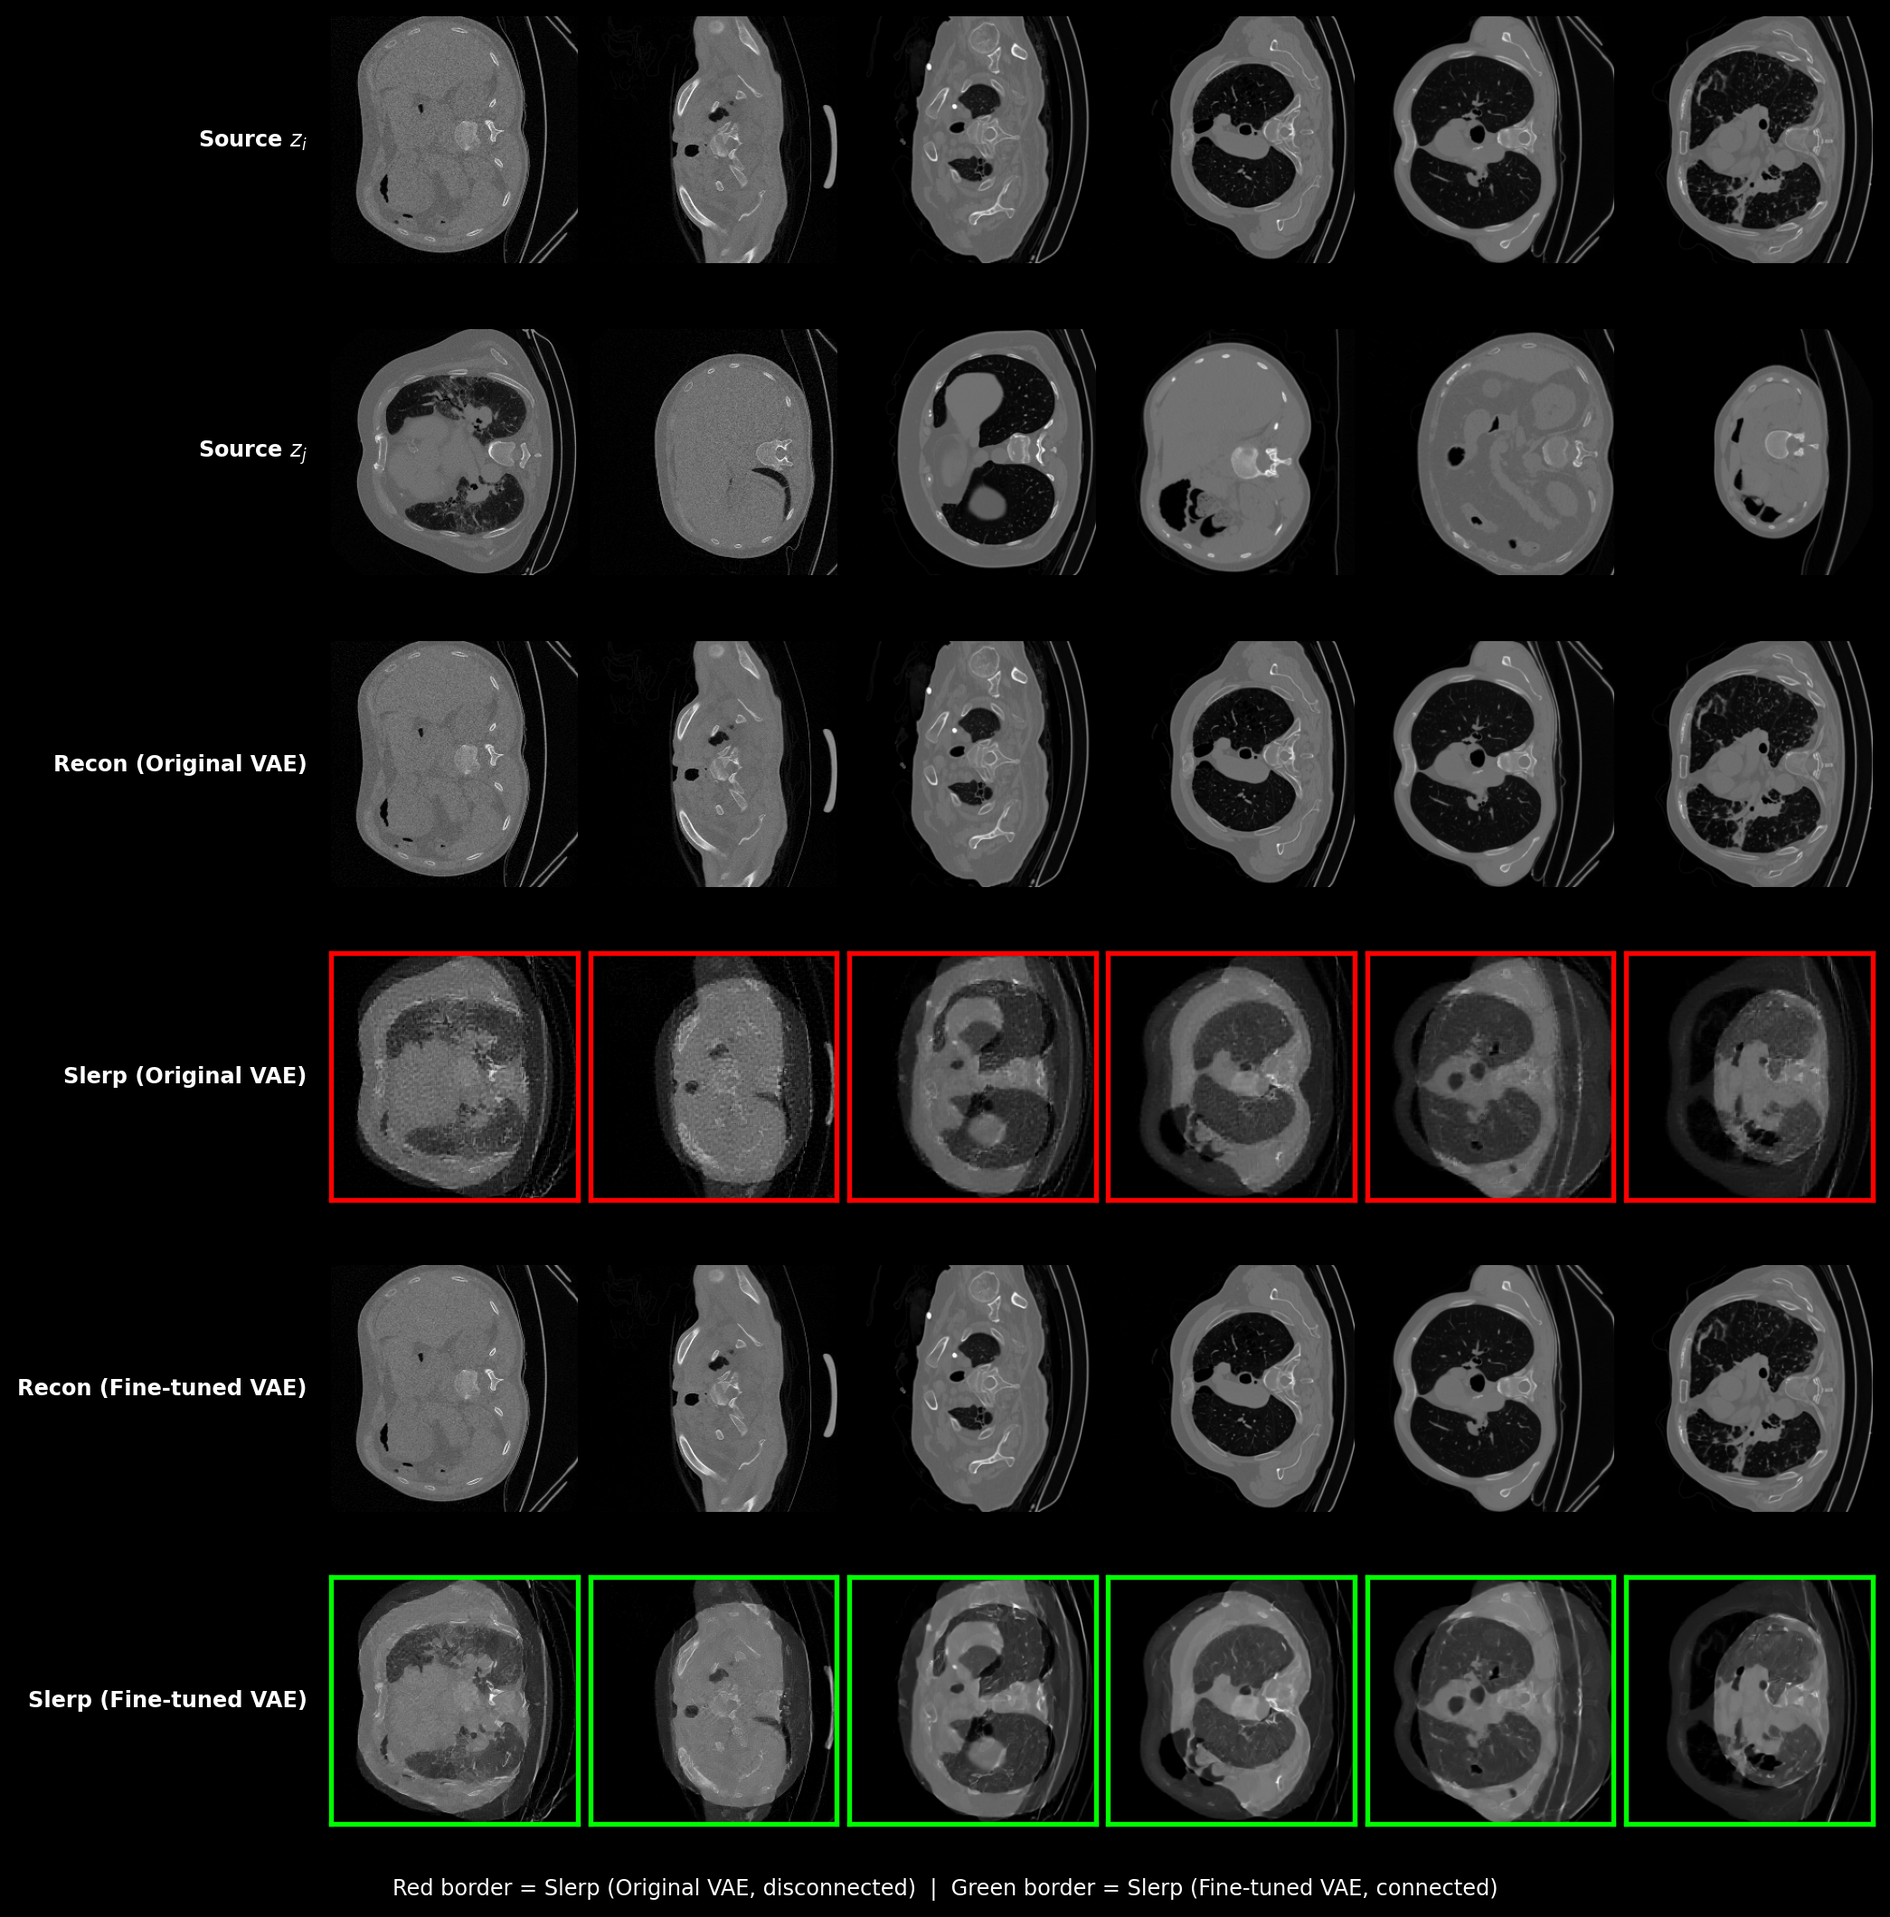
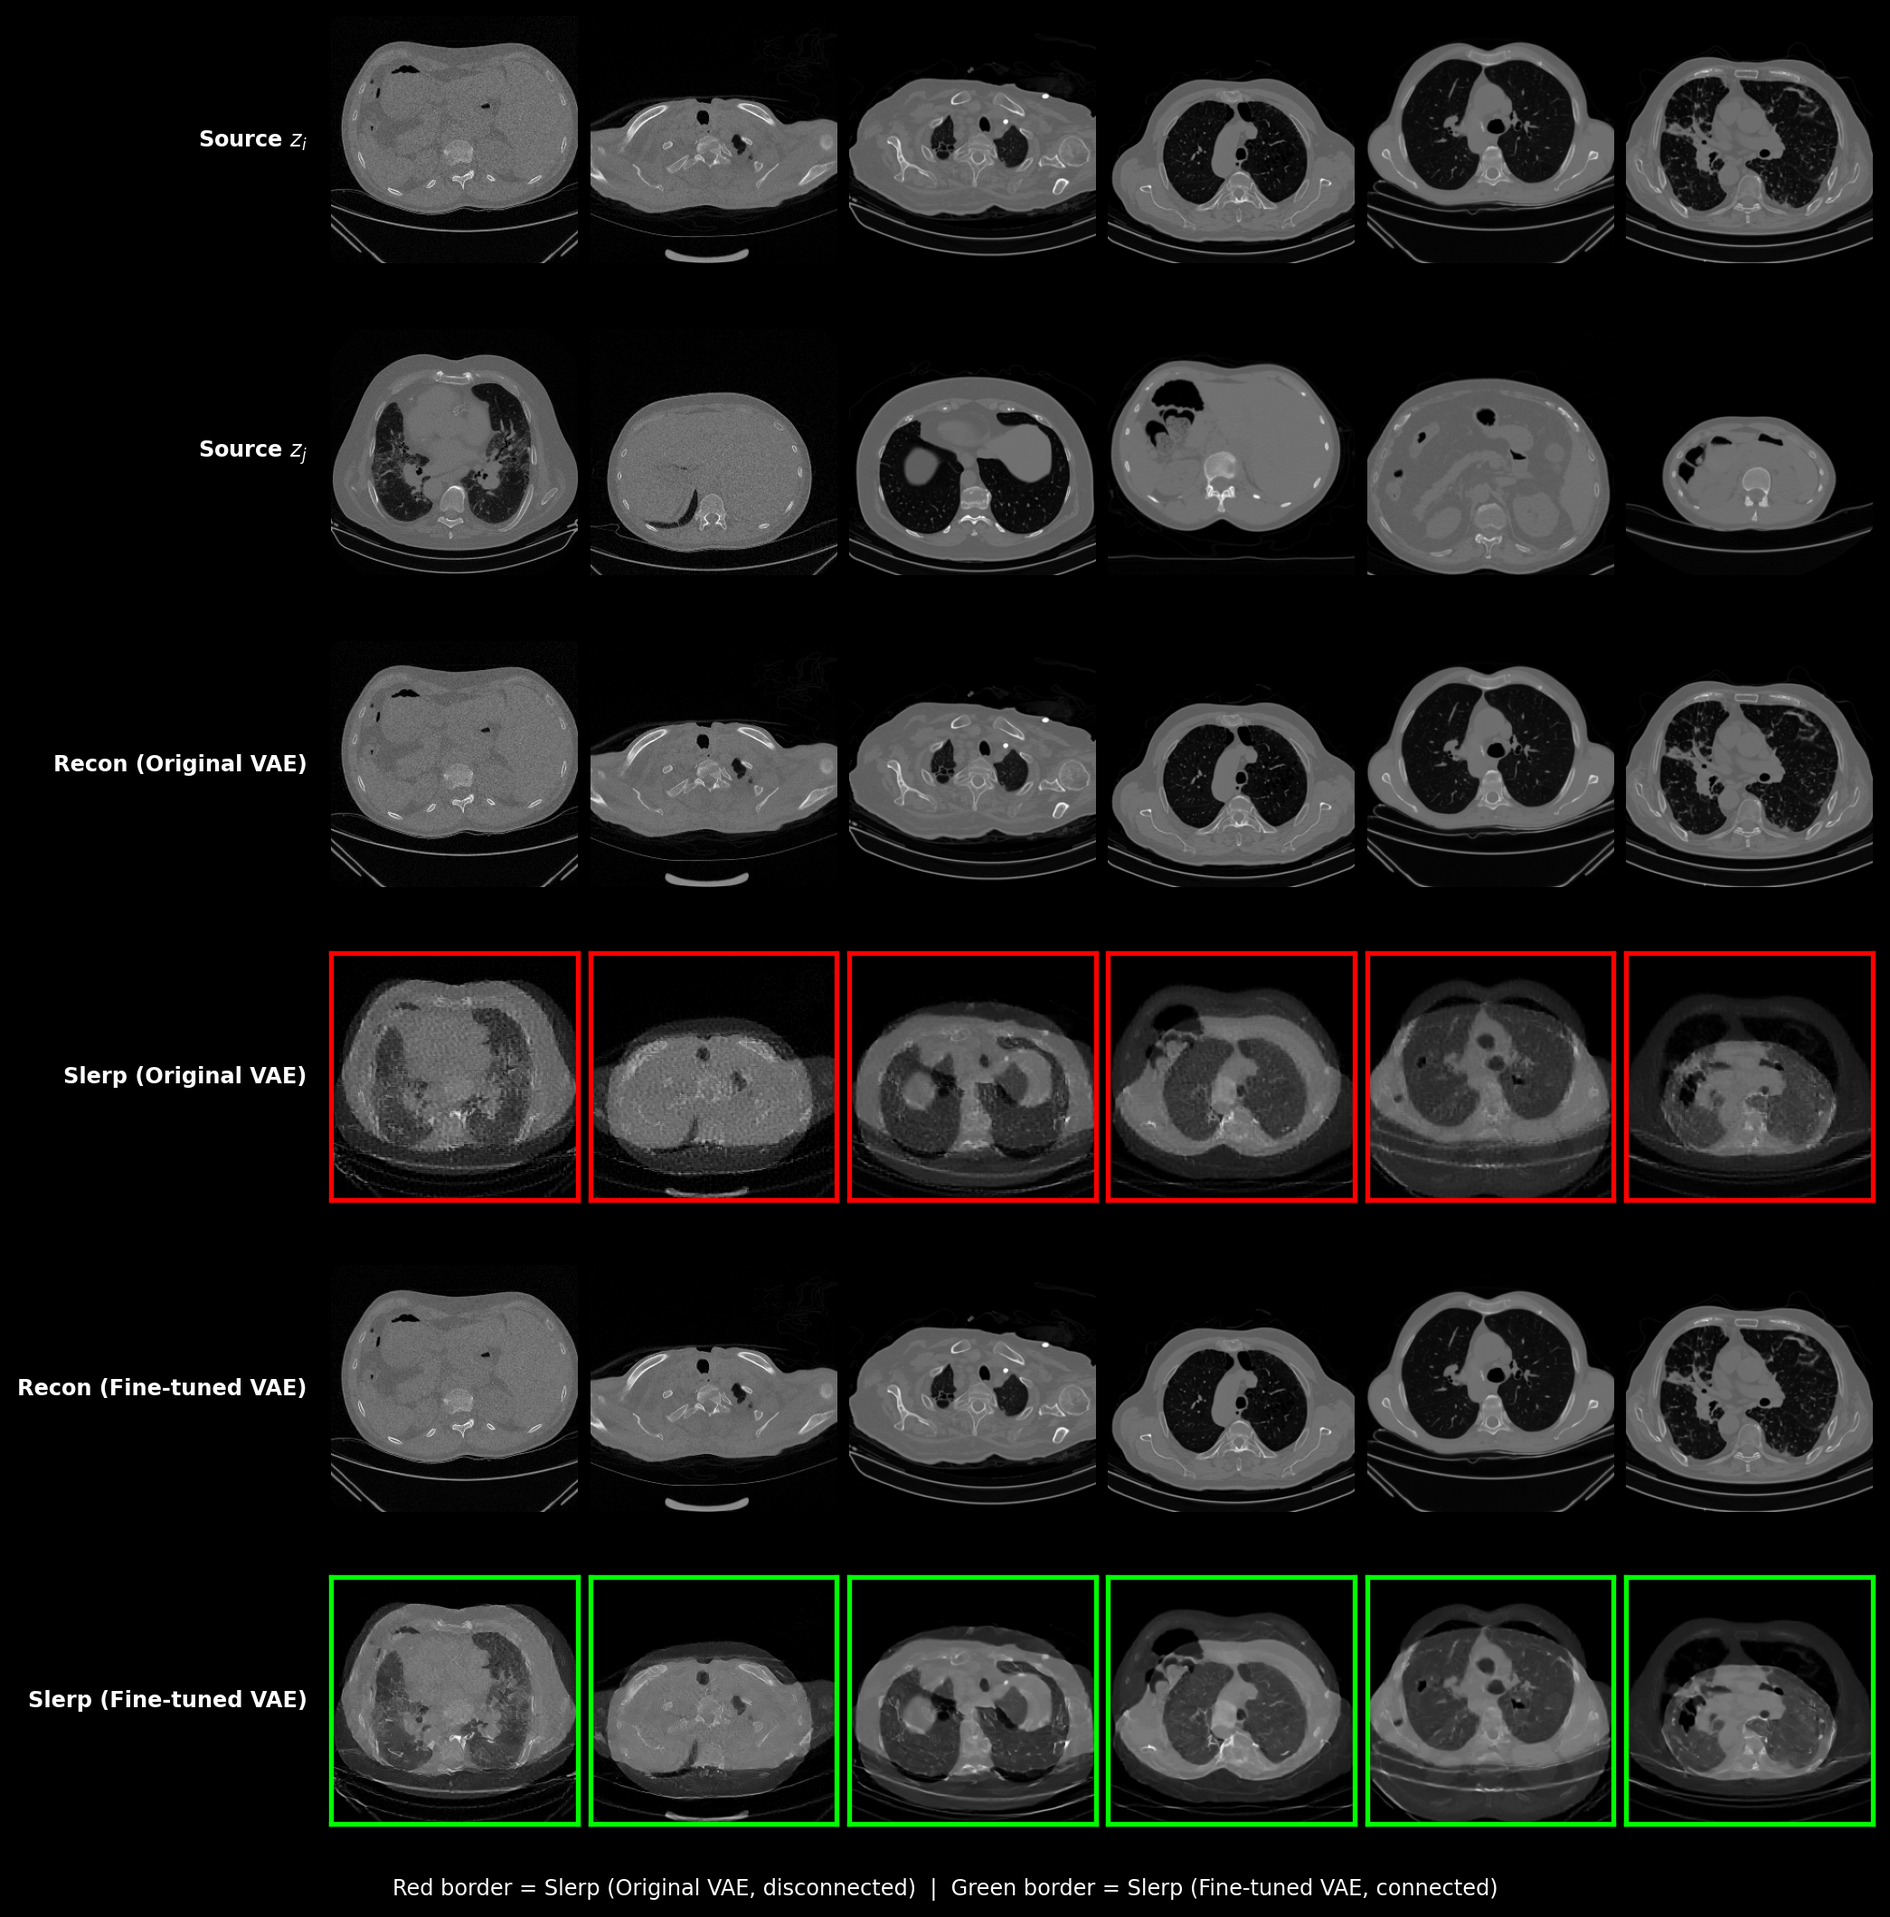
Rotate each individual CT slice panel 90 degrees clockwise, not just the grid layout

Changed region(s): [[0.1555, 0.0, 0.9952, 0.467], [0.1555, 0.6538, 0.9952, 0.9651], [0.1555, 0.4981, 0.9952, 0.6226]]

diff --git a/docs/index.html b/docs/index.html
@@ -212,7 +212,7 @@ window.Quarto = {
 <span id="cb1-19"><a href="#cb1-19" aria-hidden="true" tabindex="-1"></a><span class="cf">for</span> row <span class="kw">in</span> <span class="bu">range</span>(n_panel_types):</span>
 <span id="cb1-20"><a href="#cb1-20" aria-hidden="true" tabindex="-1"></a>    <span class="cf">for</span> col <span class="kw">in</span> <span class="bu">range</span>(n_cols):</span>
 <span id="cb1-21"><a href="#cb1-21" aria-hidden="true" tabindex="-1"></a>        ax <span class="op">=</span> axes[row, col]</span>
-<span id="cb1-22"><a href="#cb1-22" aria-hidden="true" tabindex="-1"></a>        ax.imshow(panels[row, col], cmap<span class="op">=</span><span class="st">"gray"</span>, vmin<span class="op">=</span><span class="dv">0</span>, vmax<span class="op">=</span><span class="dv">255</span>)</span>
+<span id="cb1-22"><a href="#cb1-22" aria-hidden="true" tabindex="-1"></a>        ax.imshow(np.rot90(panels[row, col], k<span class="op">=-</span><span class="dv">1</span>), cmap<span class="op">=</span><span class="st">"gray"</span>, vmin<span class="op">=</span><span class="dv">0</span>, vmax<span class="op">=</span><span class="dv">255</span>)  <span class="co"># 90 deg clockwise</span></span>
 <span id="cb1-23"><a href="#cb1-23" aria-hidden="true" tabindex="-1"></a>        ax.set_xticks([])<span class="op">;</span> ax.set_yticks([])</span>
 <span id="cb1-24"><a href="#cb1-24" aria-hidden="true" tabindex="-1"></a>        <span class="cf">for</span> spine <span class="kw">in</span> ax.spines.values():</span>
 <span id="cb1-25"><a href="#cb1-25" aria-hidden="true" tabindex="-1"></a>            spine.set_visible(<span class="va">False</span>)</span>
